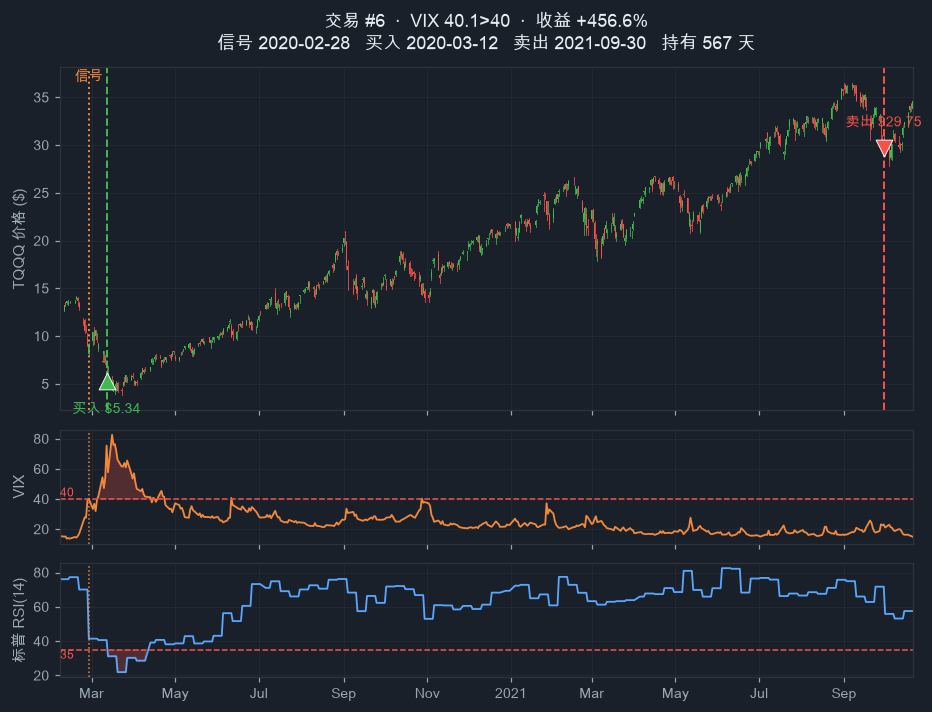
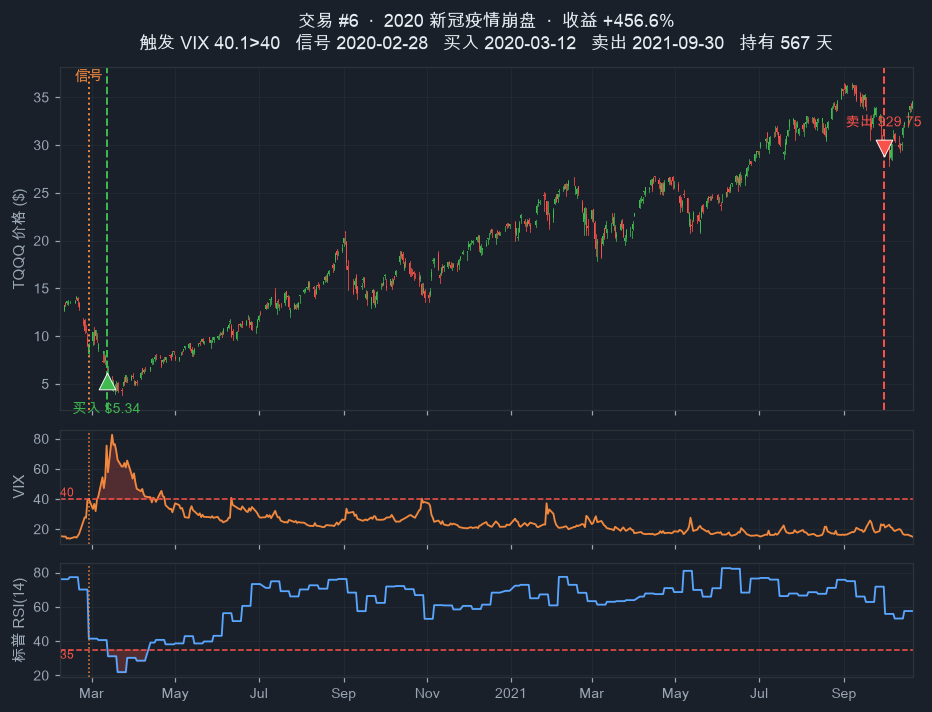
Add macro panic reason to each per-trade chart title
PANIC map labels each trade's signal with its market event (2020 COVID,
2022 inflation bear, 2023 yield spike, etc.); shown in the chart headline.

Changed region(s): [[0.1556, 0.0, 0.9024, 0.0927]]

diff --git a/src/plot_trades.py b/src/plot_trades.py
@@ -43,6 +43,20 @@ BG = "#1a2029"; GRID = "#2d333b"; INK = "#e6edf3"; MUTED = "#9aa7b4"
 UP = "#3fb950"; DOWN = "#f85149"; ORANGE = "#f0883e"; BLUE = "#58a6ff"; GREY = "#6e7681"
 PAD = pd.Timedelta(days=21)
 
+# Macro "panic reason" behind each trade's signal (by trade number).
+PANIC = {
+    1: "2010 闪崩 / 欧债危机",
+    2: "2011 美债降级 / 欧债危机",
+    3: "2015 人民币贬值 / 中国股灾",
+    4: "2016 美国大选前抛售",
+    5: "2018 美联储加息抛售",
+    6: "2020 新冠疫情崩盘",
+    7: "2022 通胀加息熊市",
+    8: "2023 美债收益率飙升",
+    9: "2025 关税冲击",
+    10: "2026 年 3 月回调",
+}
+
 
 def style_ax(ax):
     ax.set_facecolor(BG)
@@ -115,10 +129,13 @@ def main():
             exit_lbl = "持仓中"
 
         status = "（持仓中）" if is_open else ""
+        panic = PANIC.get(num)
+        head = f"交易 #{num}" + (f"  ·  {panic}" if panic else "")
         ax1.set_title(
-            f"交易 #{num}  ·  {t['Trigger']}  ·  收益 {t['Return_%']:+.1f}%{status}\n"
-            f"信号 {sig:%Y-%m-%d}   买入 {ent:%Y-%m-%d}   卖出 {exit_lbl}   "
-            f"持有 {int(t['Hold_Days'])} 天", color=INK, fontsize=12, pad=12)
+            f"{head}  ·  收益 {t['Return_%']:+.1f}%{status}\n"
+            f"触发 {t['Trigger']}   信号 {sig:%Y-%m-%d}   买入 {ent:%Y-%m-%d}   "
+            f"卖出 {exit_lbl}   持有 {int(t['Hold_Days'])} 天",
+            color=INK, fontsize=12, pad=12)
         ax1.set_ylabel("TQQQ 价格 ($)", color=MUTED, fontsize=10)
 
         # --- trigger 1: VIX ---
